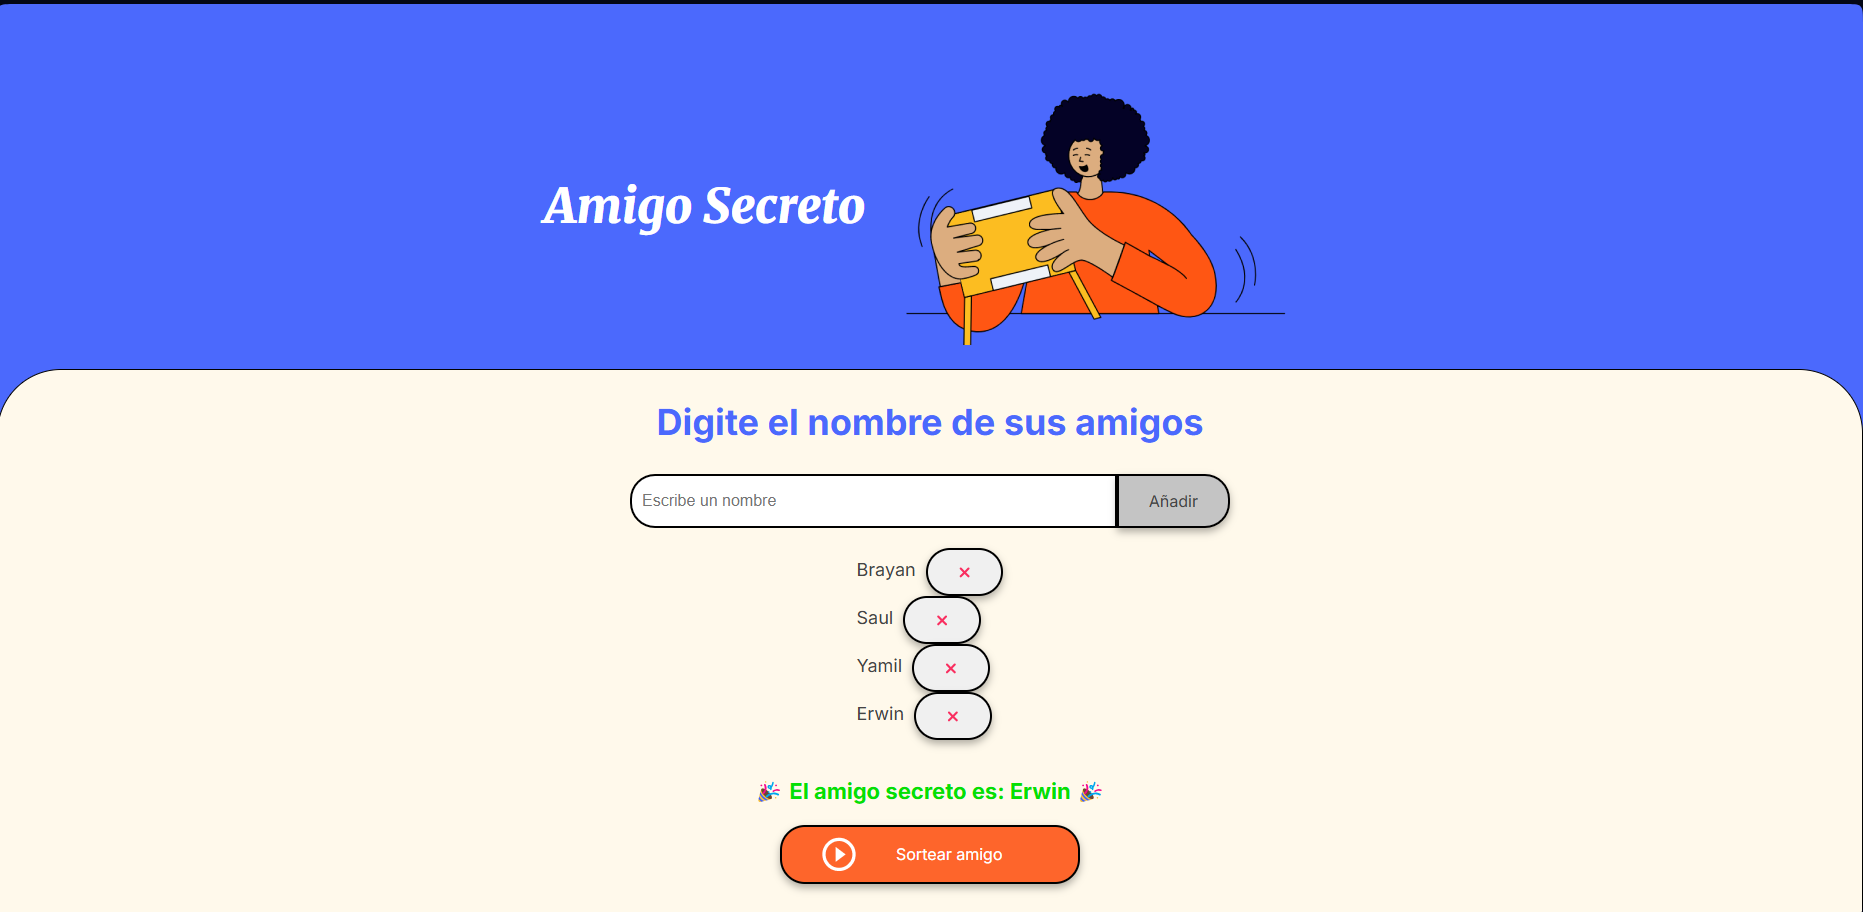
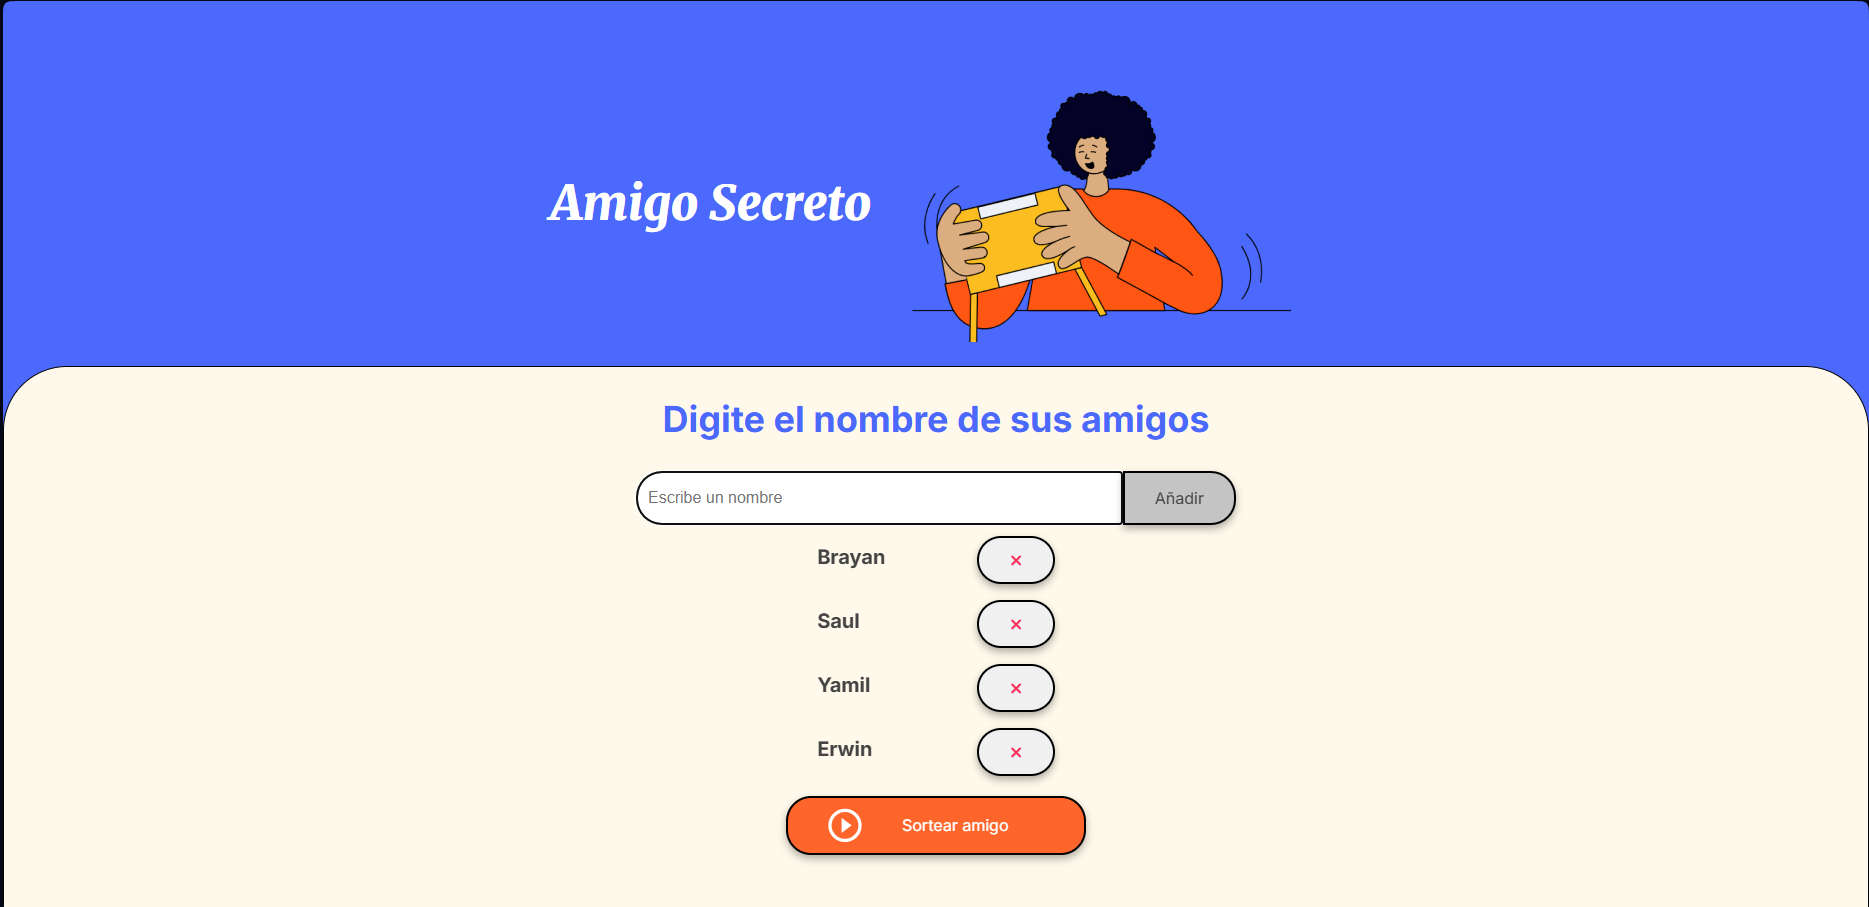
Modificacion de estilo y readme

diff --git a/app.js b/app.js
@@ -21,12 +21,14 @@ function actualizarLista() {
 
     amigos.forEach((amigo, index) => {
         const li = document.createElement("li");
-        li.textContent = amigo;
+        const nombreSpan = document.createElement("span");
+        nombreSpan.textContent = amigo;
+        nombreSpan.classList.add("name-amigo");
         const btnEliminar = document.createElement("button");
         btnEliminar.textContent = "❌";
         btnEliminar.classList.add("delete-button");
         btnEliminar.onclick = () => eliminarAmigo(index);
-
+        li.appendChild(nombreSpan)
         li.appendChild(btnEliminar);
         lista.appendChild(li);
     });

diff --git a/style.css b/style.css
@@ -131,7 +131,6 @@ ul {
     color: var(--color-text);
     font-family: "Inter", sans-serif;
     font-size: 18px;
-    margin: 20px 0;
 }
 
 .result-list {
@@ -163,4 +162,11 @@ ul {
 .delete-button{
     margin-left: 10px;
     font-size: 10px;
+}
+.name-amigo{
+    font-size: 20px;
+    display: inline-block;
+    width: 150px;
+    font-weight: bold;
+    margin: 20px 0;
 }

diff --git a/README.md b/README.md
@@ -1,0 +1,25 @@
+
+# Amigo Secreto
+
+El amigo secrete consiste en una aplicacion que permite al usuario ingresar los nombres de sus amigos para posteriormente seleccionar de manera aleatoria al amigo secreto.
+
+## Caracteristicas de la aplicacion
+
+- Agregar nombres: Los usuarios pueden ingresar nombres en un campo de texto y agregarlos a una lista.
+- Validación de entrada: Si el campo está vacío, aparece una alerta indicando que el nombre es obligatorio.
+- Visualización de la lista: Los nombres ingresados se muestran en una lista visible en la página.
+- Eliminar nombres: Cada nombre agregado tiene un botón para eliminarlo de la lista.
+- Sorteo aleatorio: Al hacer clic en el botón de sorteo, se selecciona un nombre aleatorio y se muestra el resultado en pantalla.
+
+## Capturas
+
+![Inicio](https://github.com/BrayanCrV/Amigo-secreto/blob/main/Capturas/Vacio.png?raw=true)
+La pagina al principio solo nos mostrara el campo donde ingresaremos los amigos que participaran en el sorteo.
+
+![LLenado](https://github.com/BrayanCrV/Amigo-secreto/blob/main/Capturas/Lleno.png?raw=true)
+
+Una vez ingresados los nombres se mostraran en la lista donde podremos eliminar alguno dandole clic en su boton de x en caso de querer eliminarlo.
+
+![Sorteo](https://github.com/BrayanCrV/Amigo-secreto/blob/main/Capturas/Sorteo.png?raw=true)
+
+Una vez que se ingrese todos los amigos participantes daremos clic en sortear amigo para que nos muestre al amigo elegido.
